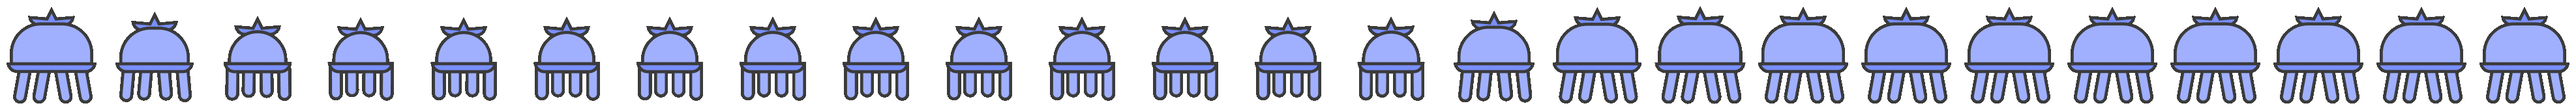
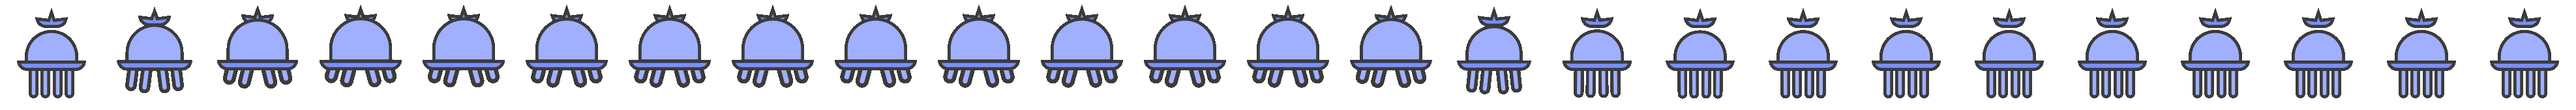
all animation should be done

diff --git a/index.html b/index.html
@@ -432,9 +432,40 @@
     @keyframes knight-animate-died {
         from {
             background-position: -336px;
+            opacity: 1;
         }
+
+        60% {
+            opacity: 1;
+        }
+
+        70% {
+            opacity: 0;
+        }
+
+        75% {
+            opacity: 1;
+        }
+
+        80% {
+            opacity: 0;
+        }
+
+        85% {
+            opacity: 1;
+        }
+
+        90% {
+            opacity: 0;
+        }
+
+        95% {
+            opacity: 1;
+        }
+
         to {
             background-position: -4200px;
+            opacity: 0;
         }
     }
 
@@ -496,9 +527,8 @@
     }
 
     #knight[data-animate="died"]>.died {
-        opacity: 1;
         background-position: -4200px;
-        animation: knight-animate-died 5000ms steps(23);
+        animation: knight-animate-died 1000ms steps(23);
     }
 </style>
 <style id="slimeStyle">
@@ -609,6 +639,47 @@
         }
     }
 
+    @keyframes slime-animate-died {
+        from {
+            background-position: 0;
+            opacity: 1;
+        }
+
+        60% {
+            opacity: 1;
+        }
+
+        70% {
+            opacity: 0;
+        }
+
+        75% {
+            opacity: 1;
+        }
+
+        80% {
+            opacity: 0;
+        }
+
+        85% {
+            opacity: 1;
+        }
+
+        90% {
+            opacity: 0;
+        }
+
+        95% {
+            opacity: 1;
+        }
+
+
+        to {
+            opacity: 0;
+            background-position: -2800px;
+        }
+    }
+
     #slime>div {
         position: absolute;
         width: 112px;
@@ -665,8 +736,7 @@
     }
 
     #slime[data-animate="died"]>.died {
-        opacity: 1;
-        animation: slime-animate-bg 1000ms steps(25);
+        animation: slime-animate-died 1000ms steps(25);
     }
 </style>
 <style id="golemStyle">
@@ -704,6 +774,47 @@
 
         100% {
             background-position: -4275px;
+        }
+    }
+
+    @keyframes golem-animate-died {
+        from {
+            background-position: -342px;
+            opacity: 1;
+        }
+
+        60% {
+            opacity: 1;
+        }
+
+        70% {
+            opacity: 0;
+        }
+
+        75% {
+            opacity: 1;
+        }
+
+        80% {
+            opacity: 0;
+        }
+
+        85% {
+            opacity: 1;
+        }
+
+        90% {
+            opacity: 0;
+        }
+
+        95% {
+            opacity: 1;
+        }
+
+
+        to {
+            opacity: 0;
+            background-position: -3420px;
         }
     }
 
@@ -763,8 +874,7 @@
     }
 
     #golem[data-animate="died"]>.died {
-        opacity: 1;
-        animation: golem-animate-bg 300ms steps(25);
+        animation: golem-animate-died 1000ms steps(18);
     }
 </style>
 <style id="jellyfishStyle">
@@ -911,12 +1021,43 @@
     }
 
     @keyframes jellyfish-animate-died {
-        0% {
+        from {
             translate: 0 0;
-            background-position: 0;
+            background-position: -316px;
+            opacity: 1;
         }
 
-        100% {
+        60% {
+            opacity: 1;
+        }
+
+        70% {
+            opacity: 0;
+        }
+
+        75% {
+            opacity: 1;
+        }
+
+        80% {
+            opacity: 0;
+        }
+
+        85% {
+            opacity: 1;
+        }
+
+        90% {
+            opacity: 0;
+        }
+
+        95% {
+            opacity: 1;
+        }
+
+
+        to {
+            opacity: 0;
             translate: 0 30px;
             background-position: -3950px;
         }
@@ -984,10 +1125,10 @@
         transform-origin: 50% -100px;
         animation: jellyfish-animate-damaged 600ms steps(25) infinite;
     }
+
     #jellyfish[data-animate="died"]>.died {
-        opacity: 1;
         translate: 0 30px;
-        animation: jellyfish-animate-died 600ms steps(25);
+        animation: jellyfish-animate-died 1000ms steps(23);
     }
 </style>
 <style id="skeletonStyle">
@@ -1011,6 +1152,47 @@
         }
     }
 
+    @keyframes skeleton-animate-died {
+        from {
+            background-position: -364px;
+            opacity: 1;
+        }
+
+        60% {
+            opacity: 1;
+        }
+
+        70% {
+            opacity: 0;
+        }
+
+        75% {
+            opacity: 1;
+        }
+
+        80% {
+            opacity: 0;
+        }
+
+        85% {
+            opacity: 1;
+        }
+
+        90% {
+            opacity: 0;
+        }
+
+        95% {
+            opacity: 1;
+        }
+
+
+        to {
+            opacity: 0;
+            background-position: -4550px;
+        }
+    }
+
     #skeleton>div {
         position: absolute;
         height: 181px;
@@ -1030,6 +1212,10 @@
 
     #skeleton>.attack {
         background-image: url('./assets/Character/Skeleton/Skeleton_Attack.png');
+    }
+
+    #skeleton>.damaged {
+        background-image: url('./assets/Character/Skeleton/Skeleton_Damaged.png');
     }
 
     #skeleton>.died {
@@ -1058,9 +1244,14 @@
         background-position: 0;
         animation: skeleton-animate-atk 300ms steps(23);
     }
-    #skeleton[data-animate="died"]>.died {
+
+    #skeleton[data-animate="damaged"]>.damaged {
         opacity: 1;
-        animation: skeleton-animate-bg 400ms steps(25);
+        animation: skeleton-animate-bg 500ms steps(25);
+    }
+
+    #skeleton[data-animate="died"]>.died {
+        animation: skeleton-animate-died 1000ms steps(23);
     }
 </style>
 <style id="slimeBossStyle">
@@ -1166,6 +1357,16 @@
         }
     }
 
+    @keyframes slimeBoss-animate-damaged {
+        from {
+            background-position: -847px;
+        }
+
+        to {
+            background-position: -3388px;
+        }
+    }
+
     #slimeBoss>div {
         position: absolute;
         height: 133px;
@@ -1177,6 +1378,14 @@
 
     #slimeBoss>.idle {
         background-image: url('./assets/Character/SlimeBoss/SlimeBoss_Idle.png');
+    }
+
+    #slimeBoss>.damaged {
+        background-image: url('./assets/Character/SlimeBoss/SlimeBoss_Damaged.png');
+    }
+
+    #slimeBoss>.died {
+        background-image: url('./assets/Character/SlimeBoss/SlimeBoss_Died.png');
     }
 
     #slimeBoss[data-animate="idle"]>.idle {
@@ -1195,7 +1404,15 @@
         animation: slimeBoss-animate-jump-back 2000ms steps(25);
     }
 
-    #slimeBoss[data-animater="damaged"]>.damaged {}
+    #slimeBoss[data-animate="damaged"]>.damaged {
+        opacity: 1;
+        background-position: -363px;
+        animation: slimeBoss-animate-damaged 200ms steps(21);
+    }
+
+    #slimeBoss[data-animate="died"]>.died {
+        opacity: 0;
+    }
 </style>
 
 <body>
@@ -1210,7 +1427,7 @@
         <div id="game">
             <div id="gameContainer" style="position: absolute;">
                 <div id="allyContainer">
-                    <div id="knight" data-animate="died">
+                    <div id="knight" data-animate="idle">
                         <div class="idle"></div>
                         <div class="walk"></div>
                         <div class="attack"></div>
@@ -1240,7 +1457,7 @@
                         <div class="damaged"></div>
                         <div class="died"></div>
                     </div>
-                    <div id="skeleton" data-animate="">
+                    <div id="skeleton" data-animate="idle">
                         <div class="idle"></div>
                         <div class="walk"></div>
                         <div class="attack"></div>
@@ -1366,11 +1583,15 @@
             $skeleton.dataset.animate = 'idle';
             await delay(200);
             $skeleton.dataset.animate = 'attack';
-            await delay(270);
+            await delay(160)
+            $knight.dataset.animate = 'damaged';
+            await delay(110);
             $skeleton.dataset.animate = 'idle';
-            await delay(300);
+            await delay(90);
+            $knight.dataset.animate = 'idle';
+            await delay(200);
             $skeleton.dataset.animate = 'walk_fliped'
-            $enemyContainer.classList.replace('move-skeleton',  'move-back-skeleton');
+            $enemyContainer.classList.replace('move-skeleton', 'move-back-skeleton');
             await delay(1000);
             $skeleton.dataset.animate = 'idle';
             $enemyContainer.classList.remove('move-back-skeleton')
@@ -1437,5 +1658,7 @@
 </html>t>
 
 </html>t>
+
+</html>
 
 </html>
